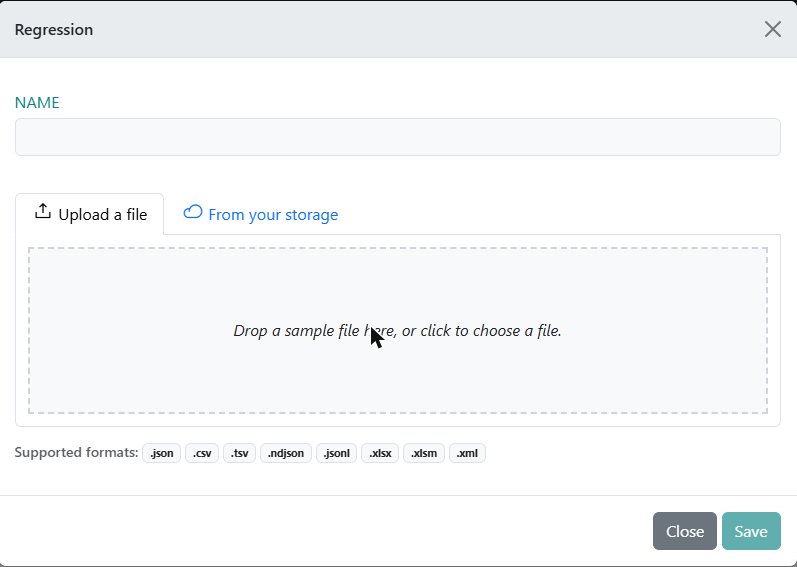
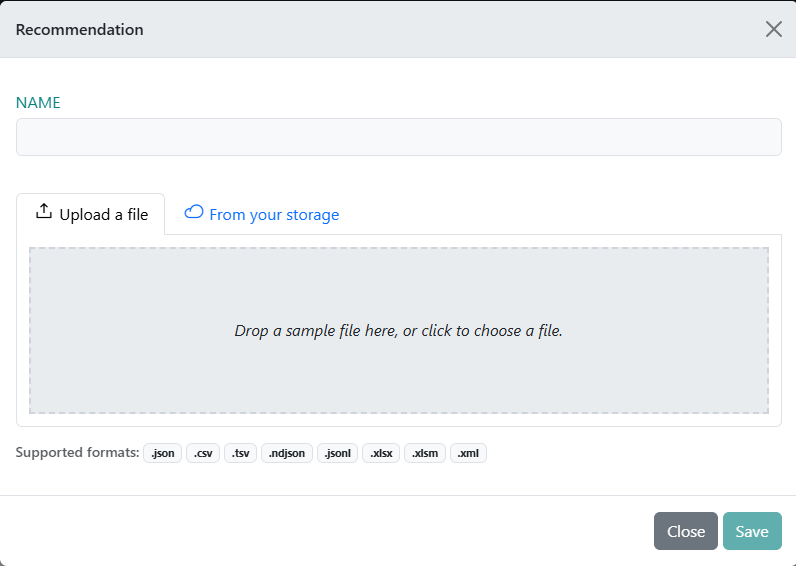
Add screenshots to getting started and bike rentals
Walk through choosing a task, uploading, training, keys, the AI Board and the chat with real screens. Example chat questions use 24-hour times.

diff --git a/getting-started/README.md b/getting-started/README.md
@@ -21,6 +21,9 @@ Everything the examples have in common, once. Read this before your first exampl
 2. **Train.** Open the training from **Trainings** (`/Trainings`). It first imports and checks your
    data; when it's ready, go to the **Algorithms** tab and click **Actions → Train**. The row says
    **Trained** when it's done, and **Predict** lets you try it right there in the browser.
+
+   ![A training's page: its data first, then the Algorithms tab where you train](images/training-page.png)
+
 3. **Use.** Every trained model has a number, shown as **Model #1234**. Your code sends that number
    with each request.
 
@@ -54,6 +57,8 @@ Columns you don't map are ignored, so you don't need to delete them from your fi
 
 Create keys at **Secrets** (`/secrets`) in the menu. There are two kinds, and they're not interchangeable:
 
+![The Secrets page: API keys on one tab, widget keys on the other](images/secrets-page.png)
+
 | Kind | Where it goes | What it can do |
 |---|---|---|
 | **API** | Your server, scripts, back-end jobs. **Secret.** | Call every prediction and chat endpoint, for any model of your subscription. |
@@ -80,6 +85,8 @@ $env:PLAXOR_MODEL_ID = "1234"
 
 The number is on the **AI Board** (`/ai-board`), on each model's card and detail page, as
 **Model #1234**. The **Developers** page (`/developers#model-id`) shows the same with pictures.
+
+![The model number in the corner of a model's chat on the AI Board](images/model-number.png)
 
 Retraining makes a new version of the *same* model. The number doesn't change, so your code keeps
 working.
@@ -175,11 +182,14 @@ To move on to a third example, delete one on the AI Board first.
 ## 7. The widget
 
 The widget is a chat window on your own web page. Visitors ask questions in plain language, such as
-*"how many bikes at 6 pm when it's 25 degrees?"* or *"what's wrong with this leaf?"* (with a photo).
+*"how many bikes at 18:00 when it's 25 degrees?"* or *"what's wrong with this leaf?"* (with a photo).
 An LLM turns the question into a prediction from your model and explains the answer.
 
 1. **Connect an LLM** on the **AI Board** (`/ai-board`), choose the model and turn chat on. Without
    this the widget has nothing to answer with.
+
+   ![The AI Board: the LLMs you can connect at the top, your trained models below](images/ai-board.png)
+
 2. Create a **Widget** key at `/apitokens`. Choose the model.
    - **Allowed sites:** leave it empty while you try things (any site works). Before going live, list
      your exact origins, e.g. `https://www.example.com`.

diff --git a/tabular/forecast-bike-rentals/README.md b/tabular/forecast-bike-rentals/README.md
@@ -34,6 +34,8 @@ Rentals range from 1 to 977 an hour, 189 on average. Source and licence: [DATA-L
 2. Click **Regression**.
 3. Name it `Bike rentals` and drop in `data/bike-rentals.csv`.
 
+![The Regression card on the Machine Learning page](images/choose-regression.png)
+
 ## 2. Match the columns
 
 Drag each column on the left onto its field on the right:
@@ -44,12 +46,16 @@ Drag each column on the left onto its field on the right:
 | `hour` | **Features** | First input |
 | `temperature_c` | **Features2** | Second input |
 
+![The bike file uploaded and every column mapped](images/match-columns.png)
+
 Click **Save**.
 
 ## 3. Train
 
 Open the training from **Trainings**. When the data has been imported, go to the **Algorithms** tab
 and click **Actions → Train**. It takes a minute or two; the row then shows **Trained**.
+
+![The Algorithms tab, with Train under Actions](images/algorithms-tab.png)
 
 **What to expect:** on a held-out fifth of the data our test run scored **R² ≈ 0.6**, about
 **±75 bikes** off on a typical hour. That's good for two inputs. The rest of the variation is
@@ -65,6 +71,8 @@ Click **Predict** on the trained row and enter:
 | `8` | `12` | **~300** | Morning commute, cool |
 | `13` | `7` | **~80** | Cold midday |
 | `3` | `20` | **< 20** | Night |
+
+![Predict at 17:00 and 24 °C: about 503 rentals](images/predict.png)
 
 ## 5. Call it from code
 
@@ -102,7 +110,9 @@ The answer is in `score`.
 ## 6. Put it on a web page
 
 `widget/index.html` is a small "demand planner" page with the PlaxorStack chat in the corner.
-Visitors ask in plain words — *"how many bikes at 6 pm if it's 25 degrees?"* — and the model answers.
+Visitors ask in plain words — *"how many bikes at 18:00 if it's 25 degrees?"* — and the model answers.
+
+![Asking the model in the chat: about 503 bikes at 17:00 and 24 degrees](images/chat.png)
 
 1. **AI Board** → choose this model → connect an LLM and turn chat on.
 2. **Secrets** → create a **Widget** key for this model. Leave *Allowed sites* empty for now.
